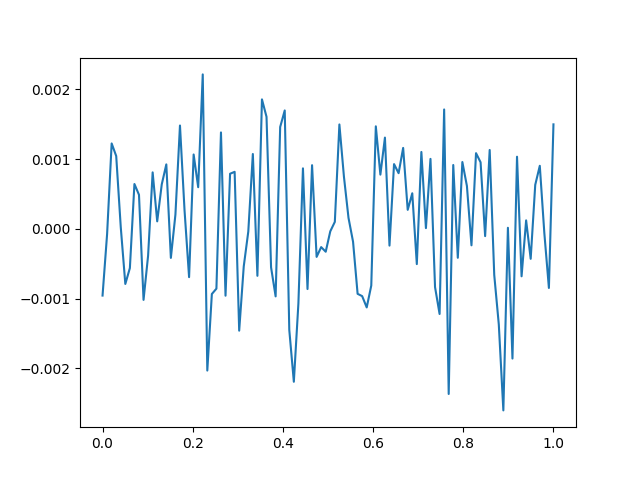
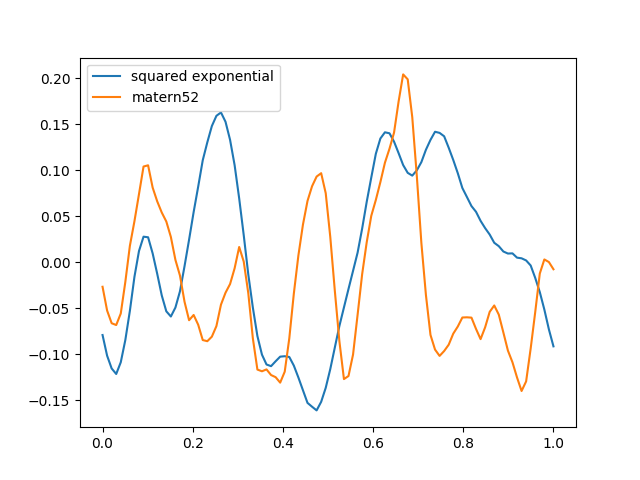
updated cov plots

diff --git a/exercises_03/methods.py b/exercises_03/methods.py
@@ -1,6 +1,10 @@
+from __future__ import division
 import pdb
 import numpy as np
 import pandas as pd
+from scipy.stats import multivariate_normal
+from scipy.spatial.distance import euclidean
+
 
 def gaussian_kernel(x):
     """
@@ -248,7 +252,8 @@ def matern(x, b, tau_sq1, tau_sq2 ):
     cov_mat = np.zeros([len(x), len(x)])
     for i,x1 in enumerate(x):
         for j,x2 in enumerate(x):
-            cov_mat[i,j] = tau_sq1*np.exp(-.5*(np.linalg.norm([x1,x2])/b)**2)+tau_sq2*float(x1==x2)
+            d = euclidean(x1,x2)
+            cov_mat[i,j] = tau_sq1*np.exp(-.5*(d/b)**2)+tau_sq2*float(x1==x2)
     return cov_mat
 
 def matern52(x, b, tau_sq1, tau_sq2 ):
@@ -277,7 +282,7 @@ def matern52(x, b, tau_sq1, tau_sq2 ):
     sqrt5 = 5.0**.5
     for i,x1 in enumerate(x):
         for j,x2 in enumerate(x):
-            d = np.linalg.norm([x1,x2])
+            d = euclidean(x1,x2)
             cov_mat[i,j] = tau_sq1*(1.0+sqrt5*d/b + 5*d**2/(3*b**2)) \
                            *np.exp(-sqrt5*d/b)+ tau_sq2*float(x1==x2)
 
@@ -318,13 +323,49 @@ def gp_predict(x_data, y_data, x_pred,sigma_2, b,tau_sq1, tau_sq2, prior_mean = 
         the covariance matrix for the estimate of f(x_star)
     """
     C = cov_fun(np.concatenate([x_data, x_pred]), b, tau_sq1, tau_sq2)
-    #Then we need to extract the partioned matricies
-    C_xx = C[:len(x_data), :len(x_data)]
-    C_xstarx = C[len(x_data):,:len(x_data)]
-    C_xstarxstar = C[len(x_data):,len(x_data):]
+    #Then we need to extract the partioned matrices
+    #First C(x,x) =  C11
+    C_11 = C[:len(x_data), :len(x_data)]
+    C_21 = C[len(x_data):,:len(x_data)]
+    C_22 = C[len(x_data):,len(x_data):]
     #then calculate the weight matrix
-    w=C_xstarx@np.linalg.inv((C_xx + np.eye(len(x_data))*sigma_2))
+    w=C_21@np.linalg.inv((C_11 + np.eye(len(x_data))*sigma_2))
     #finally calculate the predicted y values
     y_pred = w@y_data
-    cov=C_xstarxstar - C_xstarx@np.linalg.inv(C_xx+np.eye(len(x_data))*sigma_2)@np.transpose(C_xstarx)
+    cov=C_22 - C_21@np.linalg.inv(C_11+np.eye(len(x_data))*sigma_2)@np.transpose(C_12)
     return y_pred, cov
+
+def log_likelihood(x_data, y_data, sigma_2, b, tau_sq1, tau_sq2 = 0.0, cov_fun=matern52):
+    """
+    Returns a quantity that is proportional to the log likelihood for a Gaussian process
+    Used to determine hyperparameters for the matern covariance functions
+
+    Parameters
+    ----------
+    x_data: array_like
+        x values from the data
+    y_data: array_like
+        corresponding y values
+    sigma_2: float
+        Variance of residuals
+    b: float
+        Hyperparameter
+    tau_sq1: float
+        Hyperparameter
+    tau_sq2: float
+        Hyperparameter
+    cov_fun: function
+        The covariance function to use
+    Returns
+    -------
+    log_like: float
+        Quantity proportional to the log likelihood
+
+    """
+    #First evaluate the covariance matrix:
+    C = cov_fun(x_data,b,tau_sq1, tau_sq2)
+    C2 = matern_52(x_data,x_data,[b,tau_sq1,tau_sq2])
+    pdb.set_trace()
+    p = multivariate_normal.logpdf(y_data, np.zeros(len(y_data)), sigma_2*np.eye(len(y_data))+C)
+    return p
+

diff --git a/exercises_03/gaussian_processes.py b/exercises_03/gaussian_processes.py
@@ -13,30 +13,38 @@ mean = np.zeros(len(x))
 #tau2_sq = [10**-6, 1.0]
 
 
-C = matern(x,10**-6,10**-6, 10**-6)
+C = matern(x,.05,.01, 10**-6)
 plt.plot(x,np.random.multivariate_normal(mean,C))
+C = matern52(x,.05,.01, 10**-6)
+plt.plot(x,np.random.multivariate_normal(mean,C))
+plt.legend(['squared exponential', 'matern52'])
 plt.savefig('base_case')
 plt.close()
 
-C = matern(x,10**-3,10**-6, 10**-6)
+C = matern(x,.2,.01, 10**-6)
 plt.plot(x,np.random.multivariate_normal(mean,C))
+C = matern52(x,.2,.01, 10**-6)
+plt.plot(x,np.random.multivariate_normal(mean,C))
+plt.legend(['squared exponential', 'matern52'])
 plt.savefig('increased_b')
 plt.close()
 
 
-C = matern(x,10**-6,10**-3, 10**-6)
+C = matern(x,.05,1.0, 10**-6)
 plt.plot(x,np.random.multivariate_normal(mean,C))
+C = matern52(x,.05,1.0, 10**-6)
+plt.plot(x,np.random.multivariate_normal(mean,C))
+plt.legend(['squared exponential', 'matern52'])
 plt.savefig('increased_tau1')
 plt.close()
 
 
-C = matern(x,10**-6,10**-6, 10**-3)
+C = matern(x,.05,.01, 1.0)
 plt.plot(x,np.random.multivariate_normal(mean,C))
+C = matern52(x,.05,.01, 1.0)
+plt.plot(x,np.random.multivariate_normal(mean,C))
+plt.legend(['squared exponential', 'matern52'])
 plt.savefig('increased_tau2')
 plt.close()
 
 
-C = matern52(x,10**-6,10**-6, 10**-6)
-plt.plot(x,np.random.multivariate_normal(mean,C))
-plt.savefig('matern52_case')
-plt.close()

diff --git a/exercises_03/spatial_smoother.py b/exercises_03/spatial_smoother.py
@@ -1,12 +1,13 @@
+from __future__ import division
 import numpy as np
 import pandas as pd
 import matplotlib.pyplot as plt
 import pdb
 from methods import *
 import seaborn as sns
+from tqdm import tqdm
 
 df = pd.read_csv('utilities.csv')
-df = df.sort_values('temp')
 x = np.array(df['temp'].copy()).astype(float)
 y = np.array(df['gasbill']/df['billingdays'])
 sigma_2 = 1
@@ -30,3 +31,15 @@ plt.scatter(x,y,marker='x', color='mediumvioletred')
 plt.xlabel('Average temperature ($^o$ F)')
 plt.ylabel('Average daily cost (USD)')
 plt.savefig('confidence_band')
+plt.close()
+
+n = 10
+b_vec = np.linspace(40,80,n)
+tau_vec = np.linspace(20,80,n)
+p = np.zeros((n,n))
+for i,b in tqdm(enumerate(b_vec)):
+    for j,tau in enumerate(tau_vec):
+        p[i,j] = log_likelihood(x, y, sigma_2, b, tau)
+
+pdb.set_trace()
+
